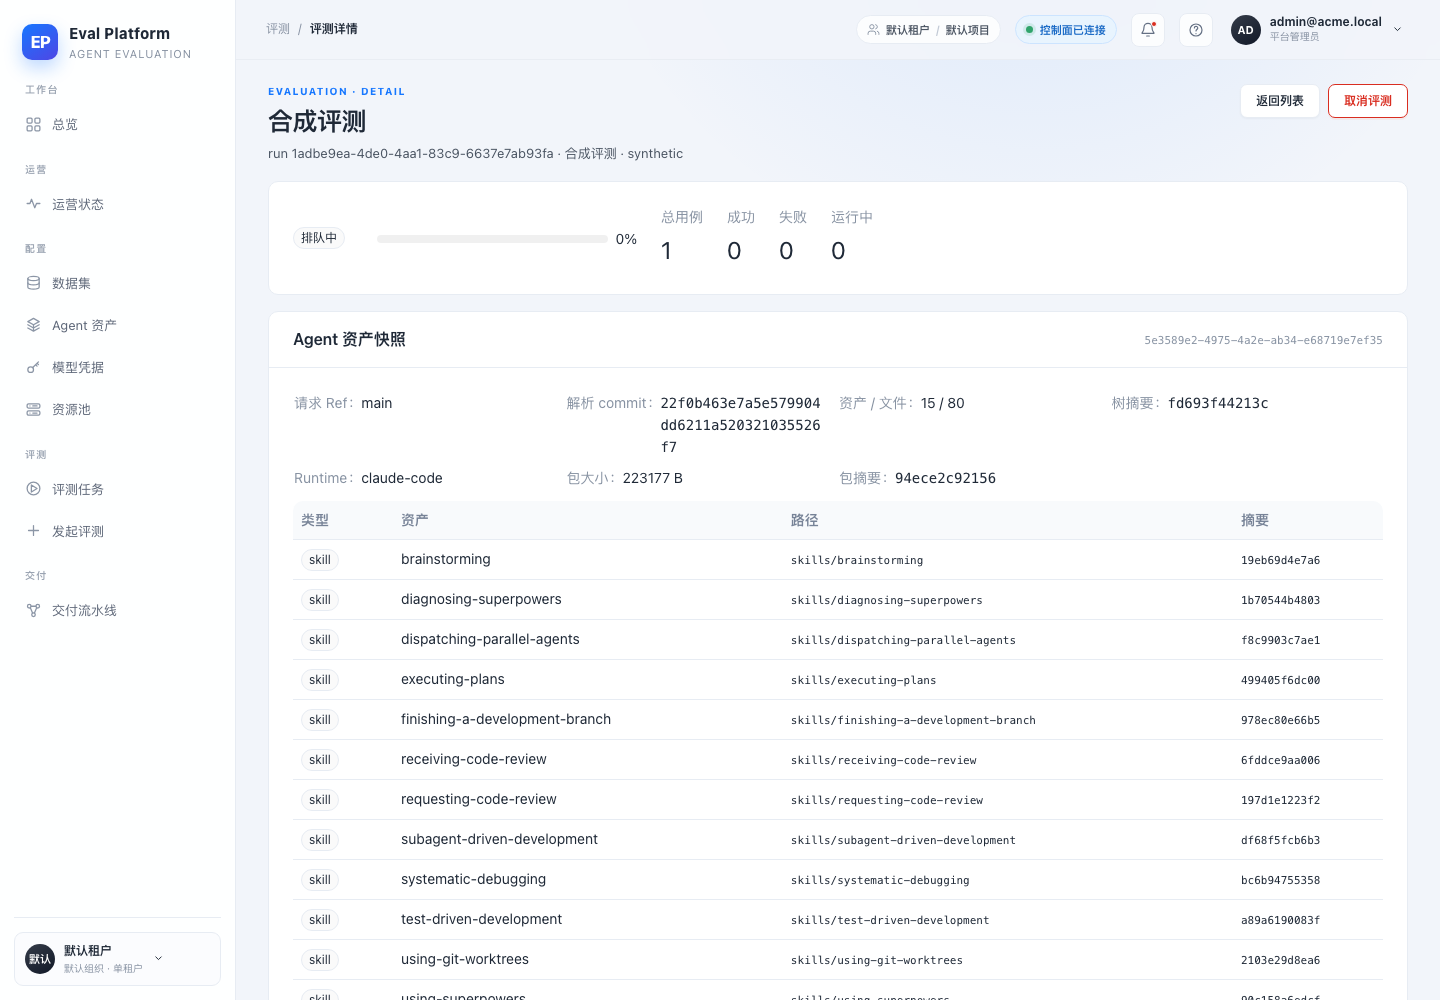
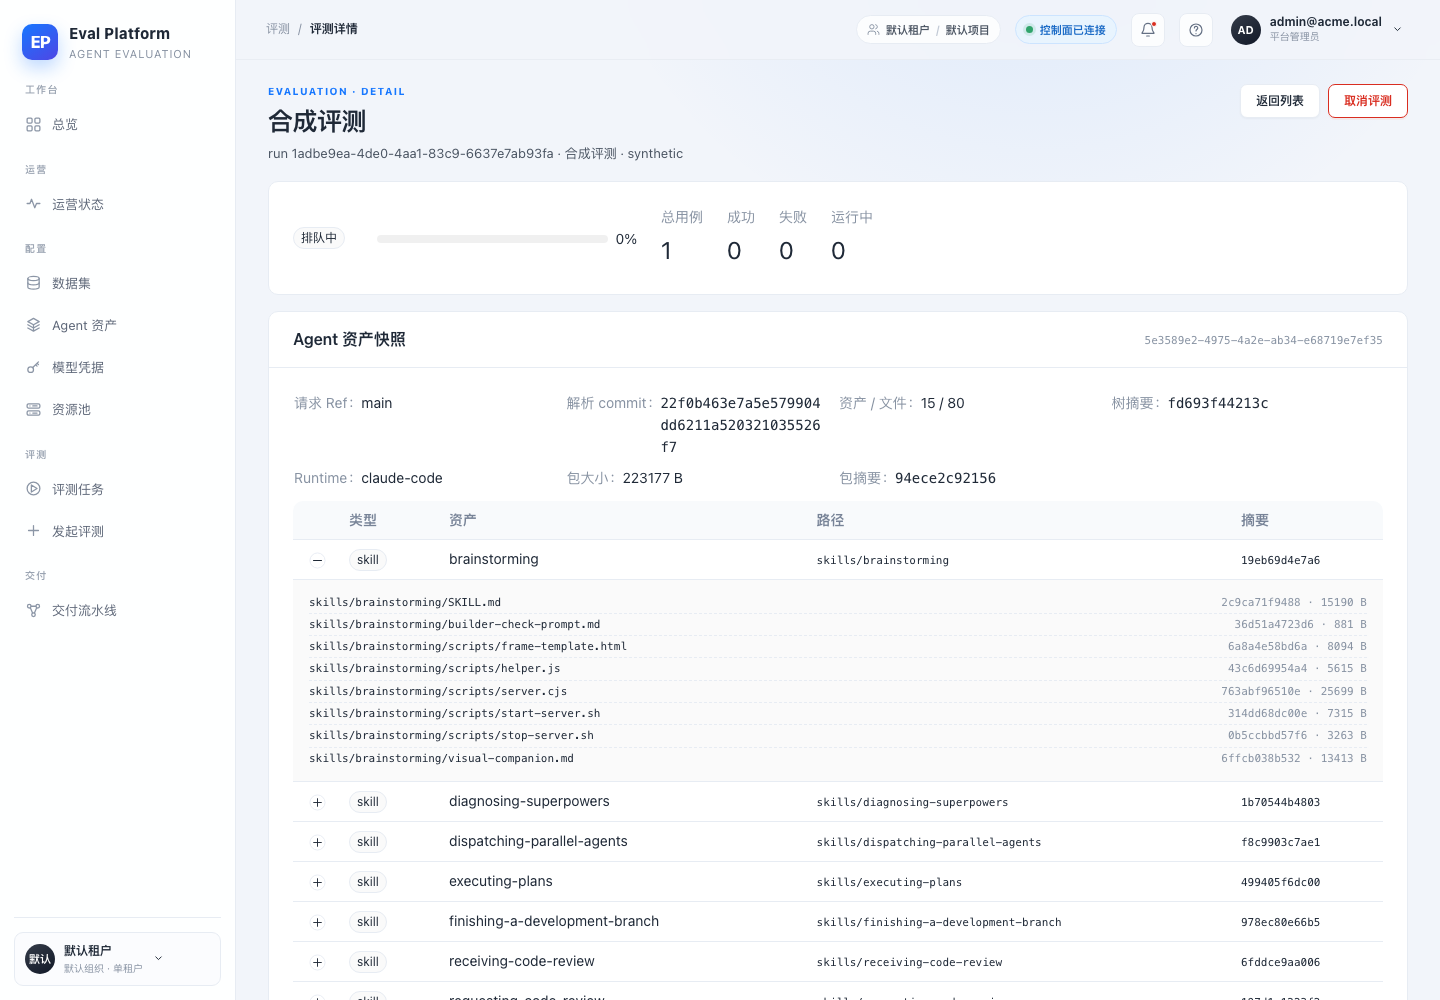
fix(assets): preserve executable modes and expose file digests (#83)
- Carry git file mode into bundle/manifest; runner chmods 100755 files
- Show per-file digests in eval detail expandable rows
- Bound asset download size before fetching blobs
- Keep source scan state fresh on idempotent resolve

diff --git a/web/src/pages/EvalDetailPage.tsx b/web/src/pages/EvalDetailPage.tsx
@@ -76,6 +76,25 @@ function shortDigest(value: string | null | undefined): string {
   return value.replace(/^sha256:/, "").slice(0, 12);
 }
 
+interface FrozenFile {
+  path?: unknown;
+  sha256?: unknown;
+  size?: unknown;
+}
+
+function frozenFiles(record: FrozenAsset): Array<{ path: string; sha256: string; size: number }> {
+  const raw = record.metadata?.files;
+  if (!Array.isArray(raw)) return [];
+  return raw
+    .filter((item): item is FrozenFile => typeof item === "object" && item !== null)
+    .map((item) => ({
+      path: String(item.path ?? ""),
+      sha256: String(item.sha256 ?? ""),
+      size: typeof item.size === "number" ? item.size : 0,
+    }))
+    .filter((item) => Boolean(item.path));
+}
+
 const testColumns: TableColumnsType<CaseTestResult> = [
   { title: "组", dataIndex: "test_group", key: "test_group", width: 64 },
   { title: "测试", dataIndex: "test_name", key: "test_name" },
@@ -252,6 +271,21 @@ export function EvalDetailPage() {
             columns={frozenAssetColumns}
             dataSource={detail.data.asset_snapshot.assets ?? []}
             pagination={false}
+            expandable={{
+              rowExpandable: (record) => frozenFiles(record).length > 0,
+              expandedRowRender: (record) => (
+                <div className="asset-file-list">
+                  {frozenFiles(record).map((file) => (
+                    <div className="asset-file-row" key={file.path}>
+                      <span className="mono">{file.path}</span>
+                      <span className="mono muted">
+                        {shortDigest(file.sha256)} · {file.size} B
+                      </span>
+                    </div>
+                  ))}
+                </div>
+              ),
+            }}
           />
         </Card>
       ) : null}

diff --git a/web/src/styles/assets.css b/web/src/styles/assets.css
@@ -507,3 +507,22 @@
     grid-template-columns: repeat(2, minmax(0, 1fr));
   }
 }
+
+
+.asset-file-list {
+  padding: 4px 8px;
+}
+
+.asset-file-row {
+  display: flex;
+  align-items: baseline;
+  justify-content: space-between;
+  gap: 14px;
+  padding: 2px 0;
+  border-bottom: 1px dashed var(--line);
+  font-size: 11px;
+}
+
+.asset-file-row:last-child {
+  border-bottom: 0;
+}

diff --git a/backend/app/services/agent_assets.py b/backend/app/services/agent_assets.py
@@ -695,9 +695,34 @@ def _pack_assets(
     runtime_key: str,
     settings: Settings,
     client: GitHubClient,
-    snapshot_id: str,
+    modes: dict[str, str],
 ) -> tuple[dict[str, bytes], list[dict[str, Any]], str]:
     owner, repo = parse_repo_url(source.repo_url)
+    planned: set[str] = set()
+    for asset in selected:
+        if asset.asset_type == "skill":
+            planned.update(
+                path
+                for path in blobs
+                if path == asset.path or path.startswith(asset.path + "/")
+            )
+        else:
+            planned.add(asset.path)
+    # Bound before downloading: a large repository file must fail cheaply
+    # instead of being fetched into memory and rejected afterwards.
+    if len(planned) > MAX_ASSET_FILES:
+        raise AgentAssetError(
+            "asset_count_exceeded",
+            f"资产文件数 {len(planned)} 超过上限 {MAX_ASSET_FILES}",
+            details={"count": len(planned)},
+        )
+    planned_bytes = sum(blobs[path].size or 0 for path in planned)
+    if planned_bytes > MAX_ASSET_BYTES:
+        raise AgentAssetError(
+            "asset_size_exceeded",
+            f"资产总大小 {planned_bytes} 超过上限 {MAX_ASSET_BYTES}",
+            details={"bytes": planned_bytes},
+        )
     files: dict[str, bytes] = {}
     assets_payload: list[dict[str, Any]] = []
     total_bytes = 0
@@ -731,7 +756,12 @@ def _pack_assets(
                 files[destination] = content
                 total_bytes += len(content)
                 asset_files.append(
-                    {"path": destination, "sha256": _digest(content), "size": len(content)}
+                    {
+                        "path": destination,
+                        "sha256": _digest(content),
+                        "size": len(content),
+                        "mode": modes.get(path, "100644"),
+                    }
                 )
         else:
             destination = str(asset.metadata["runtime_path"])
@@ -743,7 +773,12 @@ def _pack_assets(
             files[destination] = content
             total_bytes += len(content)
             asset_files.append(
-                {"path": destination, "sha256": _digest(content), "size": len(content)}
+                {
+                    "path": destination,
+                    "sha256": _digest(content),
+                    "size": len(content),
+                    "mode": modes.get(asset.path, "100644"),
+                }
             )
         if not asset_files:
             raise AgentAssetError("asset_empty", f"资产没有文件：{asset.path}", details={"path": asset.path})
@@ -867,6 +902,7 @@ def resolve_assets(
             return existing, snapshot_assets(session, existing.id), False
 
         snapshot_id = new_id()
+        modes = {entry.path: entry.mode for entry in scan.tree_entries}
         files, assets_payload, tree_digest = _pack_assets(
             source=source,
             commit=commit,
@@ -876,7 +912,7 @@ def resolve_assets(
             runtime_key=runtime_key,
             settings=settings,
             client=client,
-            snapshot_id=snapshot_id,
+            modes=modes,
         )
         bundle_doc = {
             "schema_version": ASSET_BUNDLE_SCHEMA,
@@ -888,6 +924,7 @@ def resolve_assets(
                     "path": path,
                     "sha256": _digest(files[path]),
                     "size": len(files[path]),
+                    "mode": modes.get(path, "100644"),
                     "content_base64": base64.b64encode(files[path]).decode("ascii"),
                 }
                 for path in sorted(files)
@@ -911,7 +948,12 @@ def resolve_assets(
         manifest = {
             "schema_version": ASSET_BUNDLE_SCHEMA,
             "files": [
-                {"path": path, "sha256": _digest(files[path]), "size": len(files[path])}
+                {
+                    "path": path,
+                    "sha256": _digest(files[path]),
+                    "size": len(files[path]),
+                    "mode": modes.get(path, "100644"),
+                }
                 for path in sorted(files)
             ],
             "assets": assets_payload,

diff --git a/backend/app/services/git_client.py b/backend/app/services/git_client.py
@@ -41,6 +41,7 @@ class TreeEntry:
     entry_type: str
     sha: str
     size: int | None = None
+    mode: str = "100644"
 
 
 def parse_repo_url(repo_url: str) -> tuple[str, str]:
@@ -164,12 +165,14 @@ class GitHubClient:
             if entry_type not in ("blob", "tree"):
                 continue
             size = entry.get("size")
+            mode = entry.get("mode")
             result.append(
                 TreeEntry(
                     path=path,
                     entry_type=entry_type,
                     sha=sha,
                     size=size if isinstance(size, int) else None,
+                    mode=mode if isinstance(mode, str) else "100644",
                 )
             )
         return result
